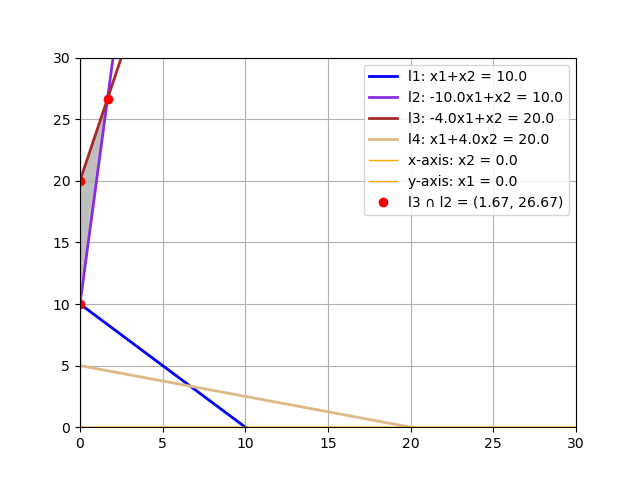
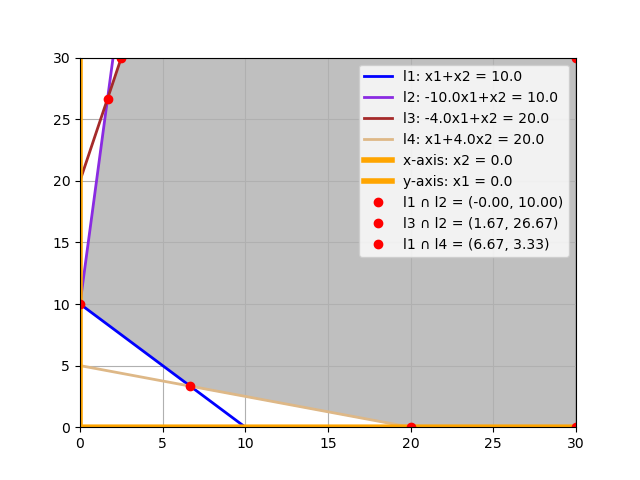
checkpoint update

diff --git a/2023-2024/Assignment_1/exercise_01.py b/2023-2024/Assignment_1/exercise_01.py
@@ -23,16 +23,47 @@ class Gui(LinearGUI):
         # self.lines.append(line(10, -1, -10, "l2", type="line"))
         self.lines.append(line(-4, 1, 20, "l3", type="line"))
         self.lines.append(line(1, 4, 20, "l4", type="line"))
+        # self.lines.append(line(11, -1, (11 * 1.67 - 26.67), "l7", type="line"))
+        # self.lines.append(line(11, -1, (-8.5), "l8", type="line"))
+
+        # self.lines.append(line(2, -1, -23.3, "l5", type="line"))
+        # self.lines.append(line(2, -1, -24, "l6", type="line"))
 
     def find_feasible_points(self):
-        self.v.append([0, 10])
-        self.plt.plot(*self.v[0], "o", color="red")
+
+        # self.v.append([0, 10])
+        # self.plt.plot(*self.v[-1], "o", color="red")
+
+        # Intersection lines 1 and 2
+        self.v.append(self.lines[0].intersection(self.lines[1]))
+
+        # Intersection lines 2 and 3
         self.v.append(self.lines[2].intersection(self.lines[1]))
-        self.v.append([0, 20])
-        self.plt.plot(*self.v[2], "o", color="red")
+
+        # Upper left limit corner
+        self.v.append([self.lines[2](self.limit, reverse=True), self.limit])
+        # self.plt.plot(*self.v[-1], "o", color="red")
+
+        # Upper right corner
+        self.v.append([self.limit, self.limit])
+        # self.plt.plot(*self.v[-1], "o", color="red")
+
+        # Lower right corner
+        self.v.append([self.limit, 0])
+        # self.plt.plot(*self.v[-1], "o", color="red")
+
+        # Intersection line 3 and line 2
+        # # self.v.append([self.lines[3](0, reverse=True), 0])
+        # self.plt.plot(*self.v[-1], "o", color="red")
+        self.v.append(self.lines[3].intersection(self.lines[2]))
+
+        # Intersection line 4 and line 1
+        self.v.append(self.lines[0].intersection(self.lines[3]))
+        # self.plt.plot(*self.v[-1], "o", color="red")
+
+        # self.plt.plot(*self.v[-1], "o", color="red")
 
     def standard_feasible_points(self):
-
         pass
 
     def solution(self, a, b, minlim, maxlim, legend=True):
@@ -63,7 +94,7 @@ class Gui(LinearGUI):
 def main():
 
     gui = Gui(plt, name="Feasible Region")
-    # gui.create_figure()
+    gui.create_figure()
     # gui.plt.savefig("img/exerc01_a.png", dpi="figure")
 
     # gui.name = "Z: min 2x1-x2"
@@ -71,10 +102,10 @@ def main():
     # gui.solution(2, -1, -12, -9)
     # gui.plt.savefig("img/exerc01_a_2.png", dpi="figure")
 
-    gui.name = "Z: min 11x1-x2"
-    gui.create_figure()
-    gui.solution(11, -1, -13, -8)
-    gui.plt.savefig("img/exerc01_b.png", dpi="figure")
+    # gui.name = "Z: min 11x1-x2"
+    # gui.create_figure()
+    # gui.solution(11, -1, -13, -8)
+    # gui.plt.savefig("img/exerc01_b.png", dpi="figure")
 
     gui.show()
 
